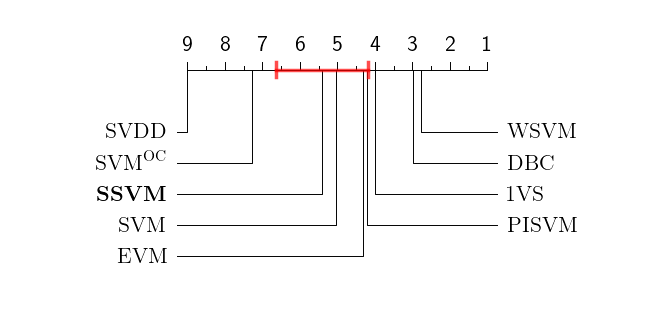
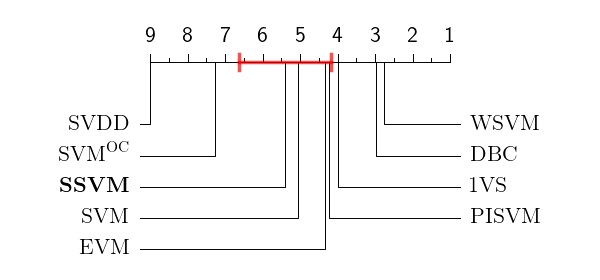
update name of the figures to avoid problems on some OSs
In MacOS it is not enough to differentiate files by case (uppercase
and lowercase).

Changed region(s): [[0.09, 0.0857, 0.9, 0.9143], [0.24, 0.8857, 0.54, 0.9143]]

diff --git a/plot_CD.py b/plot_CD.py
@@ -85,10 +85,10 @@ results_csv = [
     'HNA.csv',
     'AKS.csv',
     'AUS.csv',
-    'OSFMM.csv',
-    'OSFMm.csv',
-    'FMM.csv',
-    'FMm.csv',
+    'OSFMmacro.csv',
+    'OSFMmicro.csv',
+    'FMmacro.csv',
+    'FMmicro.csv',
 ]
 
 def mean_experiments(df):

diff --git a/README.md b/README.md
@@ -23,10 +23,10 @@ Repr. | Description | Acronym
 -|-|-
 `NA` | Normalized Accuracy | ![](figs/NA.png)
 `HNA` | Harmonic Normalized Accuracy | ![](figs/HNA.png)
-`OSFMM` | Macro-Averaging Open-Set F-Measure | ![](figs/OSFMM.png)
-`OSFMm` | Micro-Averaging Open-Set F-Measure | ![](figs/OSFMm.png)
-`FMM` | Multiclass Macro-Averaging F-Measure | ![](figs/FMM.png)
-`FMm` | Multiclass Micro-Averaging F-Measure | ![](figs/FMm.png)
+`OSFMmacro` | Macro-Averaging Open-Set F-Measure | ![](figs/OSFMmacro.png)
+`OSFMmicro` | Micro-Averaging Open-Set F-Measure | ![](figs/OSFMmicro.png)
+`FMmacro` | Multiclass Macro-Averaging F-Measure | ![](figs/FMmacro.png)
+`FMmicro` | Multiclass Micro-Averaging F-Measure | ![](figs/FMmicro.png)
 `AKS` | Accuracy on Known Samples | ![](figs/AKS.png)
 `AUS` | Accuracy on Unknown Samples | ![](figs/AUS.png)
 
@@ -85,18 +85,18 @@ This supplementary material contains CD diagrams also for AKS and AUS measures, 
 	<!-- HNA -->
 	<tr><td align="middle" colspan="2"><b>Harmonic Normalized Accuracy — <img src="figs/HNA.png" /></b></td></tr>
 	<tr><td><img src="CD_diagrams/CD_normal_HNA_O.png" /></td><td><img src="CD_diagrams/CD_normal_HNA_C.png" /></td></tr>
-	<!-- OSFMM -->
-	<tr><td align="middle" colspan="2"><b>Macro-averaging Open-Set F-Measure — <img src="figs/OSFMM.png" /></b></td></tr>
-	<tr><td><img src="CD_diagrams/CD_normal_OSFMM_O.png" /></td><td><img src="CD_diagrams/CD_normal_OSFMM_C.png" /></td></tr>
-	<!-- OSFMm -->
-	<tr><td align="middle" colspan="2"><b>Micro-averaging Open-Set F-Measure — <img src="figs/OSFMm.png" /></b></td></tr>
-	<tr><td><img src="CD_diagrams/CD_normal_OSFMm_O.png" /></td><td><img src="CD_diagrams/CD_normal_OSFMm_C.png" /></td></tr>
-	<!-- FMM -->
-	<tr><td align="middle" colspan="2"><b>Multiclass Macro-averaging F-Measure — <img src="figs/FMM.png" /></b></td></tr>
-	<tr><td><img src="CD_diagrams/CD_normal_FMM_O.png" /></td><td><img src="CD_diagrams/CD_normal_FMM_C.png" /></td></tr>
-	<!-- FMm -->
-	<tr><td align="middle" colspan="2"><b>Multiclass Micro-averaging F-Measure — <img src="figs/FMm.png" /></b></td></tr>
-	<tr><td><img src="CD_diagrams/CD_normal_FMm_O.png" /></td><td><img src="CD_diagrams/CD_normal_FMm_C.png" /></td></tr>
+	<!-- OSFMmacro -->
+	<tr><td align="middle" colspan="2"><b>Macro-averaging Open-Set F-Measure — <img src="figs/OSFMmacro.png" /></b></td></tr>
+	<tr><td><img src="CD_diagrams/CD_normal_OSFMmacro_O.png" /></td><td><img src="CD_diagrams/CD_normal_OSFMmacro_C.png" /></td></tr>
+	<!-- OSFMmicro -->
+	<tr><td align="middle" colspan="2"><b>Micro-averaging Open-Set F-Measure — <img src="figs/OSFMmicro.png" /></b></td></tr>
+	<tr><td><img src="CD_diagrams/CD_normal_OSFMmicro_O.png" /></td><td><img src="CD_diagrams/CD_normal_OSFMmicro_C.png" /></td></tr>
+	<!-- FMmacro -->
+	<tr><td align="middle" colspan="2"><b>Multiclass Macro-averaging F-Measure — <img src="figs/FMmacro.png" /></b></td></tr>
+	<tr><td><img src="CD_diagrams/CD_normal_FMmacro_O.png" /></td><td><img src="CD_diagrams/CD_normal_FMmacro_C.png" /></td></tr>
+	<!-- FMmicro -->
+	<tr><td align="middle" colspan="2"><b>Multiclass Micro-averaging F-Measure — <img src="figs/FMmicro.png" /></b></td></tr>
+	<tr><td><img src="CD_diagrams/CD_normal_FMmicro_O.png" /></td><td><img src="CD_diagrams/CD_normal_FMmicro_C.png" /></td></tr>
 	<!-- AKS -->
 	<tr><td align="middle" colspan="2"><b>Normalized Accuracy — <img src="figs/AKS.png" /></b></td></tr>
 	<tr><td><img src="CD_diagrams/CD_normal_AKS_O.png" /></td><td><img src="CD_diagrams/CD_normal_AKS_C.png" /></td></tr>
